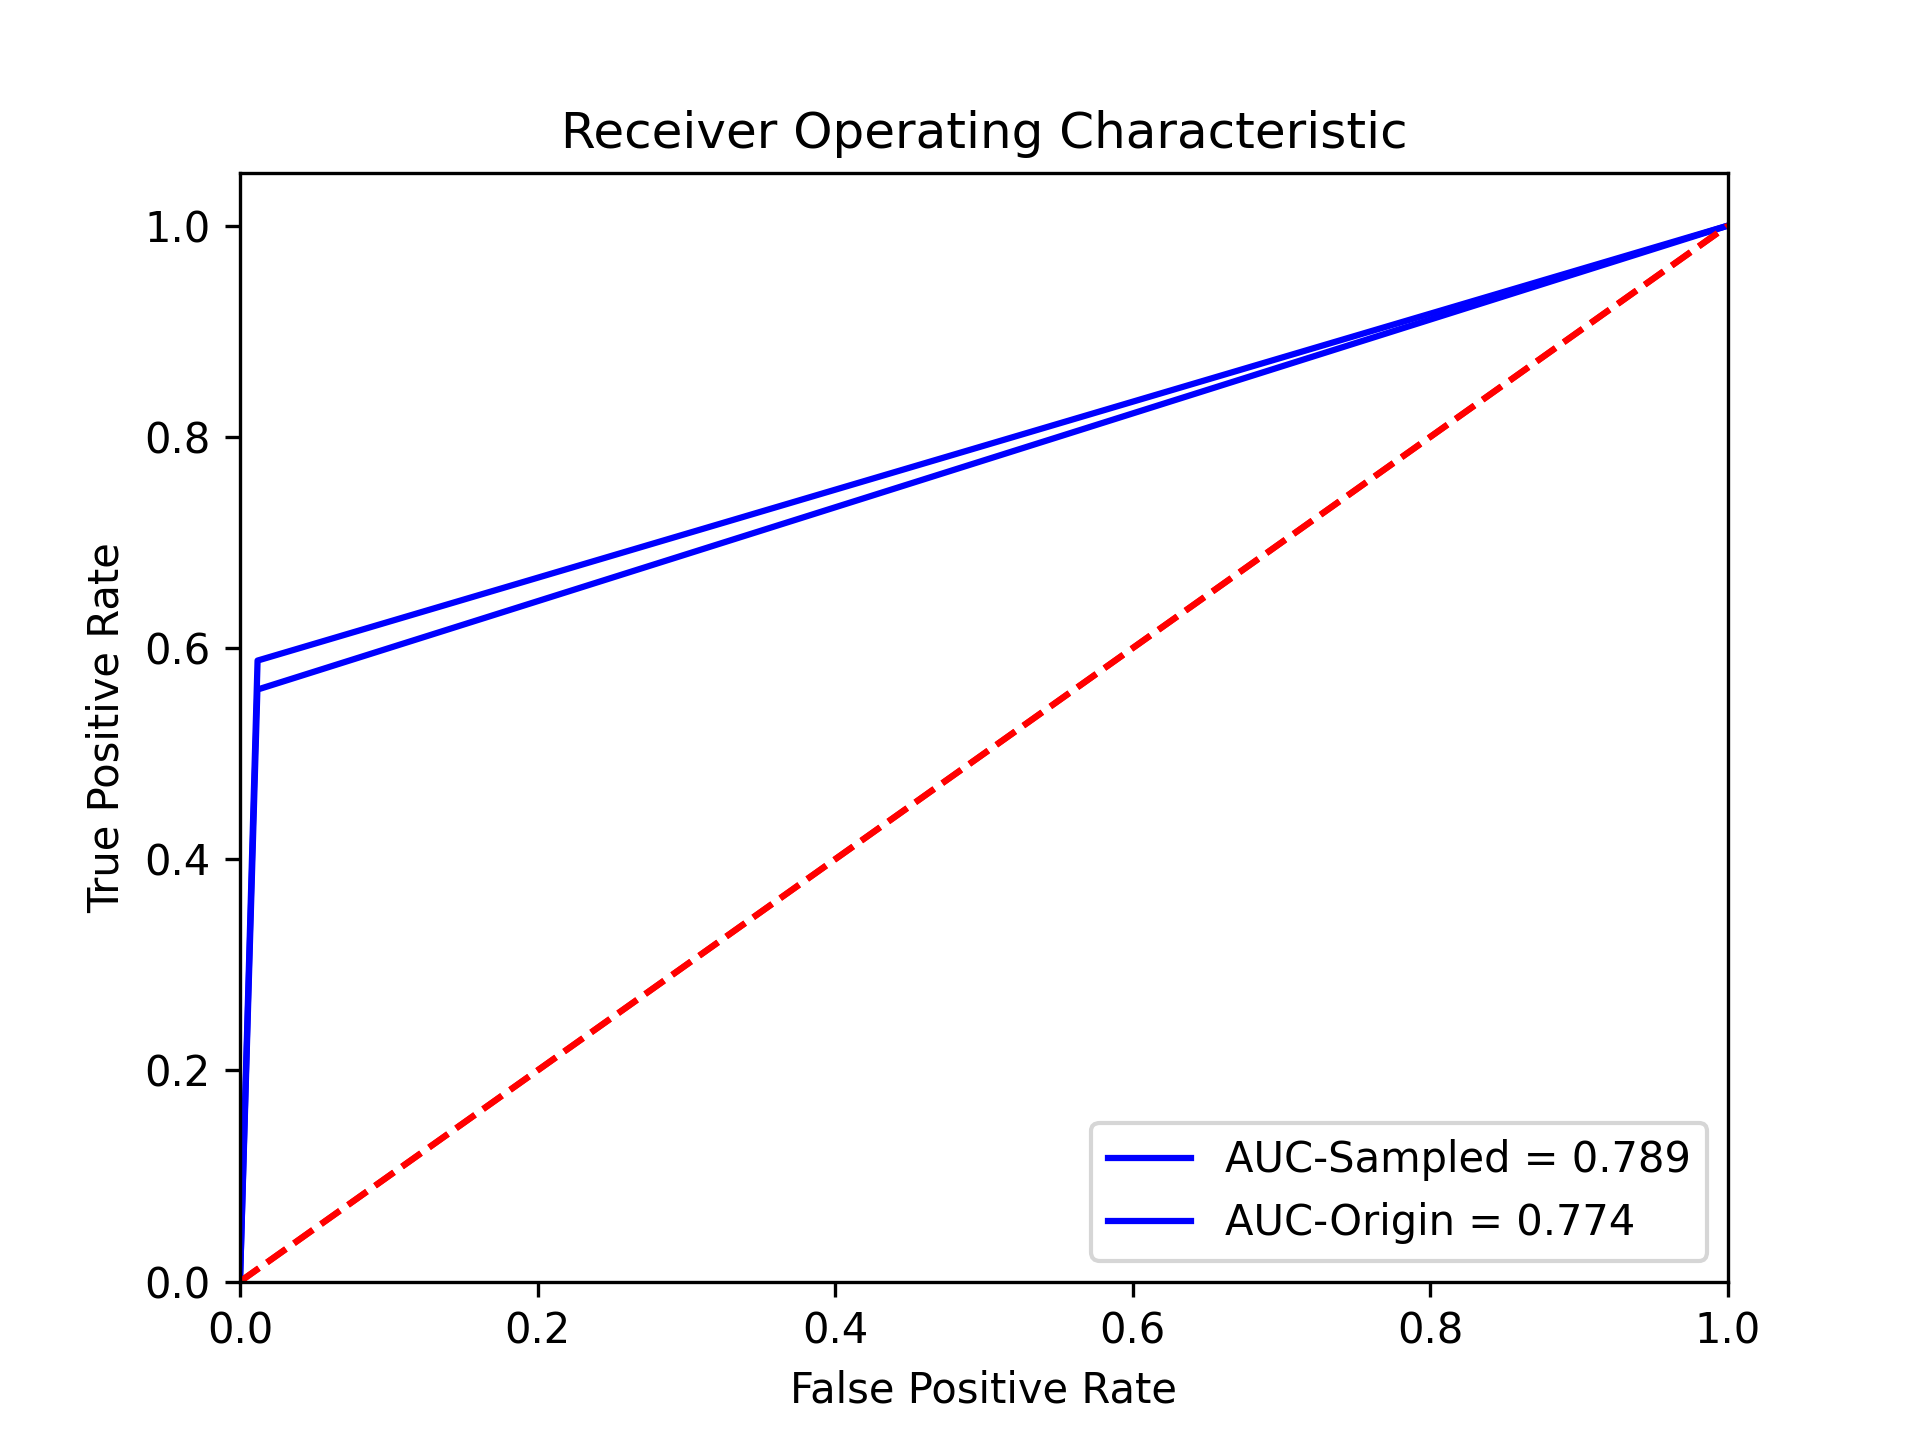
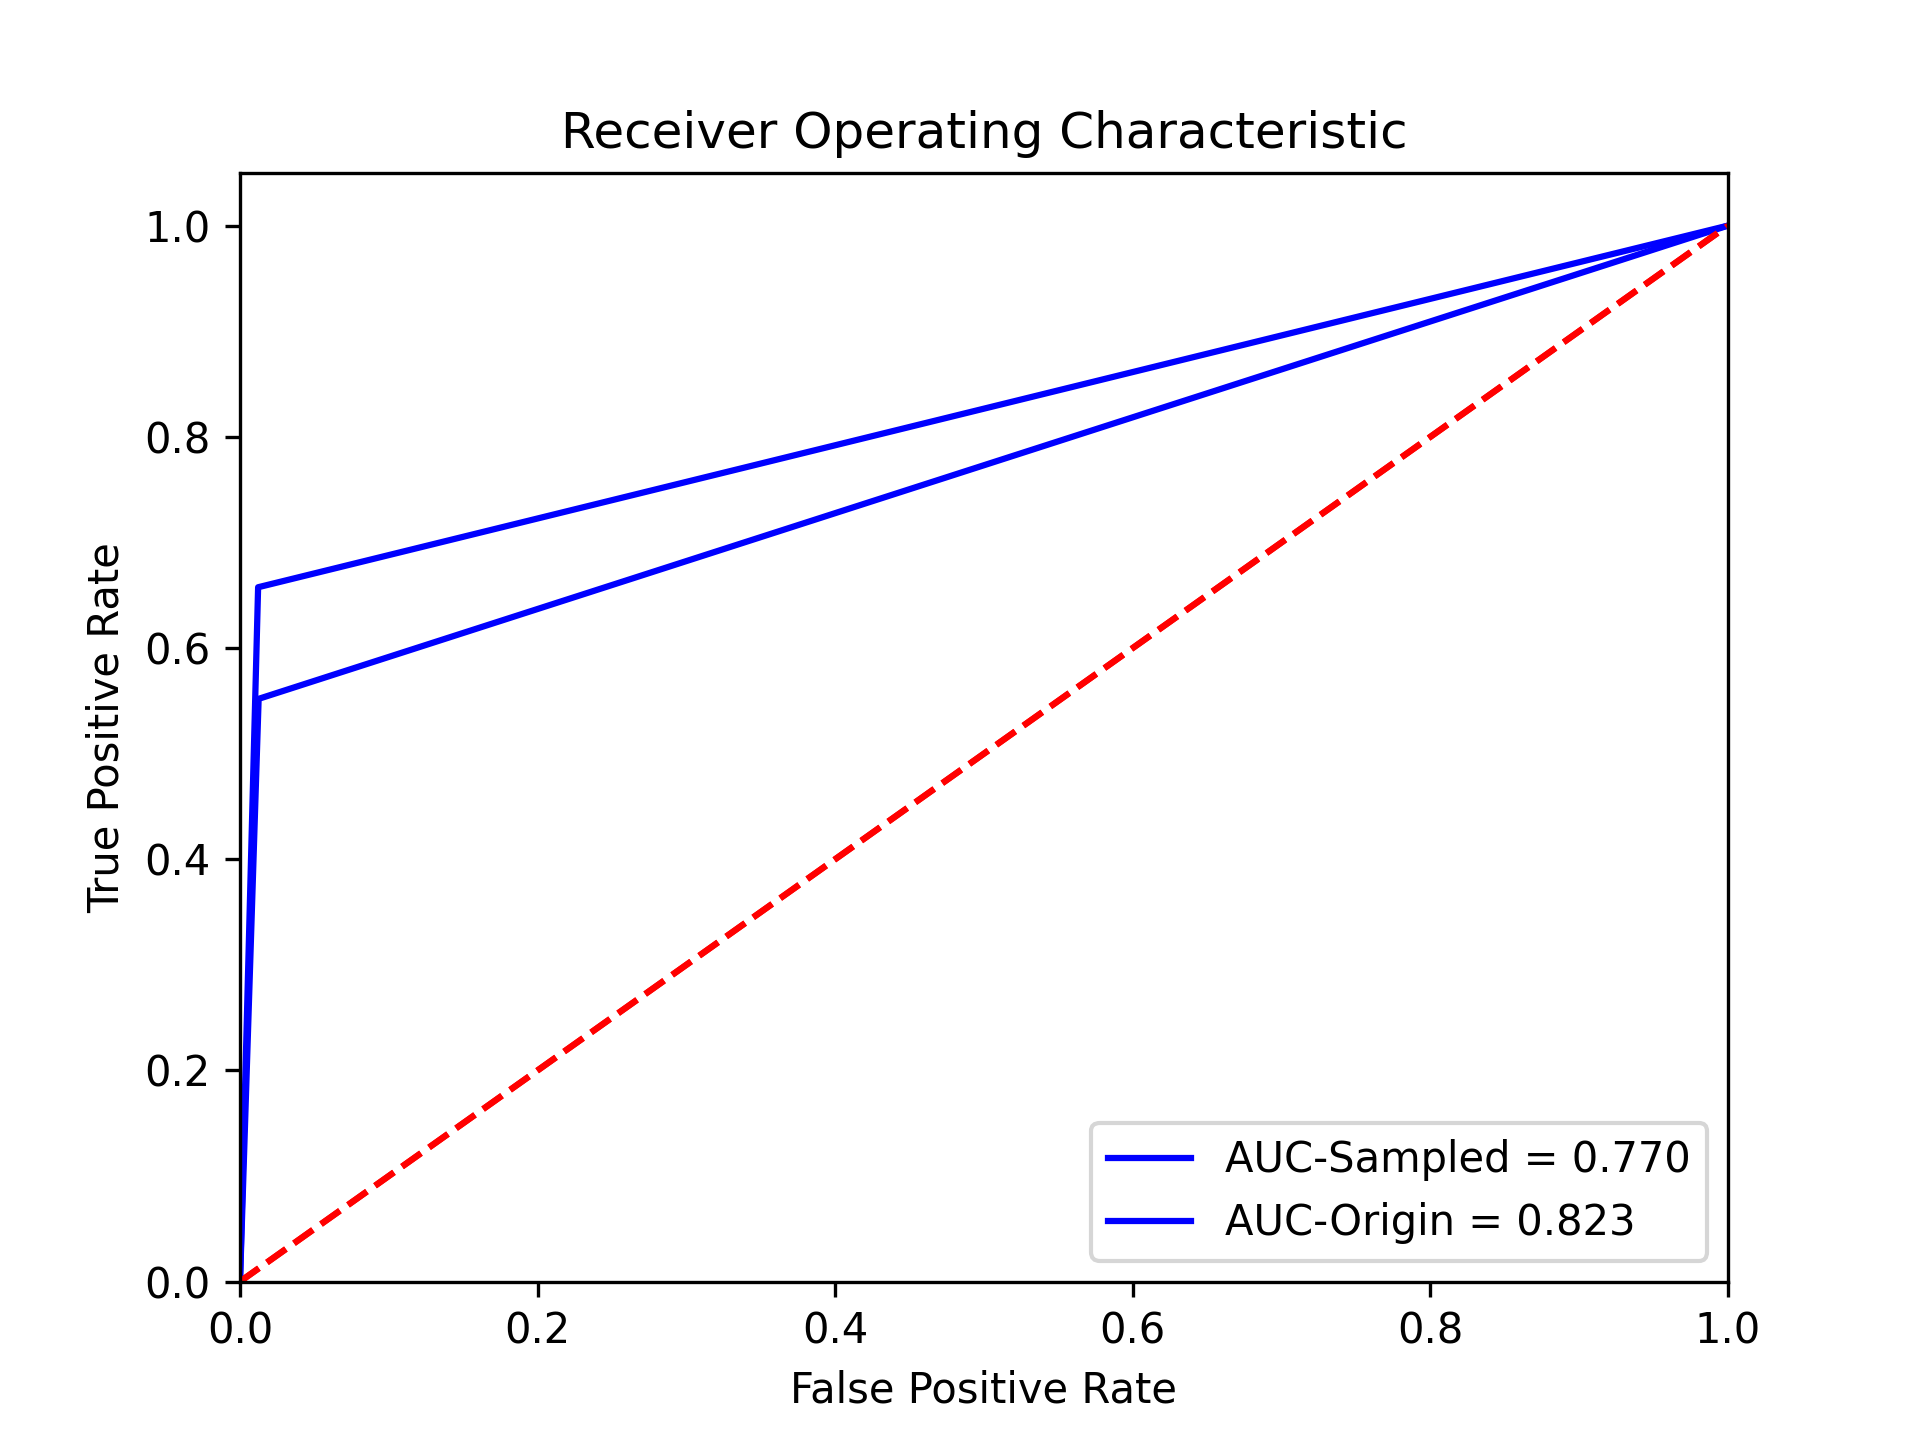
Updated the readme and cleaned some prints in the code

diff --git a/harddrive-analysis.py b/harddrive-analysis.py
@@ -213,7 +213,7 @@ def eval_with_sampling_and_kfold_logical_regression(features, df,k=5):
         print(classification_report(y_test, y_pred))
 
     roc_auc = sum(roc_auc) / k
-    print("Results within the sampled dataset:\nprecision:{0}\nrecall:{1}\naccuracy:{2}\nf1_score:{3}".format(sum(precision) / k, sum(recall) / k,
+    print("*****************\nSummary results of the sampled train/test:\nprecision:{0}\nrecall:{1}\naccuracy:{2}\nf1_score:{3}".format(sum(precision) / k, sum(recall) / k,
                                                                            sum(acc) / k, sum(f1) / k))
     plt.title('Sampled - Receiver Operating Characteristic')
     plt.plot(fpr, tpr, 'b', label='AUC-Sampled = %0.3f' % roc_auc)
@@ -232,7 +232,7 @@ def eval_with_sampling_and_kfold_logical_regression(features, df,k=5):
     modelResults_f = confusion_matrix(y_test_origin, y_pred_final)
     error_f = zero_one_loss(y_test_origin, y_pred_final)
 
-    print("Final Results for The model:")
+    print("*****************\nFinal Results for The model:")
     print(modelResults_f)
     print("Final Accuracy:",1 - error_f)
     # print(1 - error_f, '\n')
@@ -269,14 +269,21 @@ def init_model(df, features):
     return X,y
 
 
+def print_some_info_about_dataset(df):
+    print(df.head(10))
+    print(df.info())
+    # print(df.columns.values)
+    # print(len(df.columns.values))
+
 def main():
     # plot_fail_per_model()
     df = pd.read_csv(DATA_SET_PATH)
-
+    print_some_info_about_dataset(df)
     cleaned_df = clean_not_failing_models(df)
     # get_hdd_statistics(df)
     #This is an unbalanced data
-    features = [5, 9, 187, 188, 193, 194, 197, 198, 241, 242]
+    # features = [5, 9, 187, 188, 193, 194, 197, 198, 241, 242]
+    features = [5, 9, 187, 188, 197, 198]
     # eval_basic_logical_regression_kfold(features, df)
     eval_with_sampling_and_kfold_logical_regression(features,cleaned_df)
 

diff --git a/README.md b/README.md
@@ -13,25 +13,41 @@ https://www.kaggle.com/backblaze/hard-drive-test-data
 
 ## Dataset
 
-This data set represents snapshot of each operational hard drive in the Backblaze data center.It includes basic drive information along with the S.M.A.R.T. statistics reported by that drive. The daily snapshot of one drive is one record or row of data. All of the drive snapshots for a given day are collected into a file consisting of a row for each active hard drive. The format of this file is a "csv" (Comma Separated Values) file. Each day this file is named in the format YYYY-MM-DD.csv, for example, 2013-04-10.csv.
+This data set represents snapshot of each operational hard drive in the Backblaze data center.It includes basic drive information along with the [S.M.A.R.T.](https://en.wikipedia.org/wiki/S.M.A.R.T.) statistics reported by that drive. The daily snapshot of one drive is one record or row of data. All of the drive snapshots for a given day are collected into a file consisting of a row for each active hard drive. The format of this file is a "csv" (Comma Separated Values) file. Each day this file is named in the format YYYY-MM-DD.csv, for example, 2013-04-10.csv.
 
-The first row of the each file contains the column names, the remaining rows are the actual data. The columns are as follows:
+The first row of the each file contains the column names, the remaining rows are the actual data. 
 
-Date – The date of the file in yyyy-mm-dd format.
-Serial Number – The manufacturer-assigned serial number of the drive.
-Model – The manufacturer-assigned model number of the drive.
-Capacity – The drive capacity in bytes.
-Failure – Contains a “0” if the drive is OK. Contains a “1” if this is the last day the drive was operational before failing.
-2013-2014 SMART Stats – 80 columns of data, that are the Raw and Normalized values for 40 different SMART stats as reported by the given drive. Each value is the number reported by the drive.
-2015-2017 SMART Stats – 90 columns of data, that are the Raw and Normalized values for 45 different SMART stats as reported by the given drive. Each value is the number reported by the drive.
-2018 (Q1) SMART Stats – 100 columns of data, that are the Raw and Normalized values for 50 different SMART stats as reported by the given drive. Each value is the number reported by the drive.
-2018 (Q2) SMART Stats – 104 columns of data, that are the Raw and Normalized values for 52 different SMART stats as reported by the given drive. Each value is the number reported by the drive.
-2018 (Q4) SMART Stats – 124 columns of data, that are the Raw and Normalized values for 62 different SMART stats as reported by the given drive. Each value is the number reported by the drive.
+This dataset contains data from the first two quarters in 2016.
 
+The columns are as follows:
+
+**Date** – The date of the file in yyyy-mm-dd format
+
+**Serial Number** – The manufacturer-assigned serial number of the drive
+
+**Model** – The manufacturer-assigned model number of the drive
+
+**Capacity** – The drive capacity in bytes.
+
+**Failure** – Contains a “0” if the drive is OK. Contains a “1” if this is the last day the drive was operational before failing.
+
+**90 variables that begin with 'smart'** - Raw and Normalized values for 45 different SMART stats as reported by the given drive
+
+
+## pre-analysis results
+* This is supervised ML problem with classification (Success/Failure)
+* There are more success cases than failure, that makes dataset unbalanced, this is based on the following mean-failure/model diagram; <br/>
+
+![alt text](https://github.com/ilterpehlivan/hdd-failure-prediction/blob/master/Figure_1.png?raw=true "Medium Failure Graph")
+
+* Dataset is too big 2.5 GB, that makes it super hard to process
+* 90 variables takes quite long time to train and potential overfitting
 
 ## Feature Selection
 
-TODO: < Ilter >
+Due to limited RAM on our personal computers, we limited our feature size to at most 10 SMART attributes <br/>
+We chose to keep BackBlaze’s original five features SMART 5, 187, 188, 197, and 198 because they were selected by BackBlaze for their high correlation to HDD failure<br/>
+Additionally we put the SMART 9 which is the lifetime of the HDD as we believed it should be correlated to failures
 
 ## Preprocessing
 
@@ -40,8 +56,6 @@ TODO: < Ilter >
 
 * Balance the dataset
 >The success rates (0s) are more than failure rate (1s).That makes the dataset an unbalanced dataset. It is illustrated in this figure 
-
-![Model Distribution](Figure_1.jpg?raw=true "Model failure rates")
 
 >To balance the data firstly oversampling is applied to the lower sampled (1) classes then undersampling is applied for the high rate of classification(0s) and finally Kfolding is used to select the random sub-groups for train/test set.
 
@@ -58,4 +72,7 @@ TODO: #Phase2
 TODO: #Phase2
 
 ## Improvements
-TODO: < ILTER > explain how to improve the results
+* Focus to the certain model which has more failure rates
+* Download more data from the site and select only focused model data
+* Try to find other features which might be correlated
+* Try different algorithms
